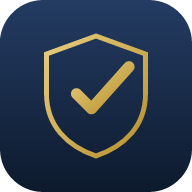
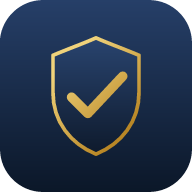
Refine the JobWarden shield identity

diff --git a/css/install.css b/css/install.css
@@ -9,7 +9,7 @@ a{color:inherit}img{display:block;max-width:100%}
 a:focus-visible,button:focus-visible{outline:2px solid var(--gold);outline-offset:5px}
 .site-header,.install-hero,.instructions,.after-install,.closing,footer{padding-left:max(5vw,24px);padding-right:max(5vw,24px)}
 .site-header{height:92px;display:flex;align-items:center;justify-content:space-between;border-bottom:1px solid var(--line)}
-.brand{display:inline-flex;align-items:center;gap:12px;text-decoration:none}.brand img{width:42px;height:46px}.brand span{display:grid}
+.brand{display:inline-flex;align-items:center;gap:12px;text-decoration:none}.brand img{width:44px;height:48px}.brand span{display:grid}
 .brand strong{font-family:var(--serif);font-size:1.03rem;letter-spacing:.035em}.brand small{color:var(--gold);font-family:var(--mono);font-size:.63rem;letter-spacing:.26em;text-transform:uppercase}
 .back-link{font-size:.84rem;text-underline-offset:5px}
 .install-hero{min-height:590px;display:grid;grid-template-columns:1.1fr .7fr;align-items:center;gap:10vw;padding-top:70px;padding-bottom:70px}
@@ -40,7 +40,7 @@ h1{margin:0 0 25px;font-size:clamp(3.2rem,6.4vw,6.1rem)}.lede{max-width:620px;ma
 footer{display:flex;justify-content:space-between;gap:50px;padding-top:48px;padding-bottom:50px;background:#070b13;color:#778398;font-size:.72rem}
 footer p{max-width:780px;margin:0}footer div{display:flex;gap:18px;white-space:nowrap}footer a:hover{color:var(--gold)}
 @media (max-width:820px){.install-hero{grid-template-columns:1fr;min-height:0}.install-mark{width:260px}.section-intro{grid-template-columns:1fr;gap:8px}.device-guides{grid-template-columns:1fr}footer{flex-direction:column}}
-@media (max-width:600px){.site-header{height:76px}.brand img{width:35px;height:39px}.back-link{font-size:.76rem}.install-hero{padding-top:62px;padding-bottom:70px}h1{font-size:clamp(2.8rem,13.5vw,4rem)}
+@media (max-width:600px){.site-header{height:76px}.brand img{width:37px;height:41px}.back-link{font-size:.76rem}.install-hero{padding-top:62px;padding-bottom:70px}h1{font-size:clamp(2.8rem,13.5vw,4rem)}
   .actions{display:grid}.button{width:100%}.install-mark{display:none}.instructions,.after-install{padding-top:76px;padding-bottom:76px}.section-intro h2,.after-install h2{font-size:2.55rem}
   .device-guide{padding:26px 22px}.after-install li{grid-template-columns:1fr;gap:6px}.closing{align-items:flex-start;flex-direction:column}footer div{flex-wrap:wrap}}
 @media (prefers-reduced-motion:reduce){.button{transition:none}}

diff --git a/css/marketing.css b/css/marketing.css
@@ -22,7 +22,7 @@ a:focus-visible{outline:2px solid var(--gold);outline-offset:5px}
 .site-header{height:92px;display:flex;align-items:center;justify-content:space-between;border-bottom:1px solid var(--line)}
 .site-header{padding-left:max(2.6vw,24px);padding-right:max(2.6vw,24px)}
 .brand{display:inline-flex;align-items:center;gap:12px;text-decoration:none}
-.brand img{width:42px;height:46px}.brand span{display:grid}
+.brand img{width:44px;height:48px}.brand span{display:grid}
 .brand strong{font-family:var(--serif);font-size:1.03rem;letter-spacing:.035em}
 .brand small{color:var(--gold);font-family:var(--mono);font-size:.63rem;letter-spacing:.26em;text-transform:uppercase}
 nav{display:flex;align-items:center;gap:34px}nav a{font-size:.88rem;text-decoration:none}
@@ -94,7 +94,7 @@ footer>div{display:flex;justify-content:flex-end;gap:18px}footer a:hover{color:v
   footer{grid-template-columns:1fr;gap:28px}footer>div{justify-content:flex-start}
 }
 @media (max-width:600px){
-  .site-header{height:76px}.brand img{width:35px;height:39px}nav{gap:14px}
+  .site-header{height:76px}.brand img{width:37px;height:41px}nav{gap:14px}
   nav a:first-child{display:none}.nav-install{padding:8px 13px}.hero{min-height:0}
   .hero-copy{padding:62px 0 28px}h1{font-size:clamp(2.9rem,13vw,3.75rem)}
   h1::after{width:130px;margin-top:22px}

diff --git a/css/shell.css b/css/shell.css
@@ -4,7 +4,7 @@
 .app-header { position: sticky; top: 0; z-index: var(--z-header); display: flex; flex-wrap: wrap; align-items: center; justify-content: space-between; gap: 8px 12px; padding: 16px 16px calc(16px + env(safe-area-inset-top)); background: var(--header-bg); border-bottom: 1px solid var(--line); box-shadow: inset 0 1px 0 var(--hi), 0 10px 24px -18px rgba(0,0,0,.5); }
 .brand { margin: 0; display: flex; align-items: center; gap: 12px; min-width: 0; }
 .mark { width: 42px; height: 42px; flex: none; border-radius: var(--radius); display: grid; place-items: center; color: var(--primary-strong); background: var(--sheen), linear-gradient(160deg, var(--navy-2), var(--navy-deep)); border: 1px solid rgba(205,171,69,.3); box-shadow: var(--shadow-1); }
-.mark svg { width: 24px; height: 24px; }
+.mark img { width: 27px; height: 30px; }
 .wordmark { display: flex; flex-direction: column; min-width: 0; }
 .wm-name { font-family: var(--serif); font-weight: 600; font-size: var(--fs-title); letter-spacing: .04em; line-height: 1.05; color: var(--text); white-space: nowrap; }
 .wm-name .wm-warden { color: var(--primary); }

diff --git a/index.html b/index.html
@@ -18,7 +18,7 @@
 <body>
   <header class="app-header">
     <h1 class="brand">
-      <span class="mark"><svg viewBox="0 0 100 110" fill="none" stroke="currentColor" stroke-linecap="round" stroke-linejoin="round" aria-hidden="true"><path d="M50 9 L84 22 V53 C84 77 68 93 50 100 C32 93 16 77 16 53 V22 Z" stroke-width="6"/><path d="M35 55 L46 66 L70 38" stroke-width="9"/></svg></span>
+      <span class="mark"><img src="./icons/logo-mark.svg" alt=""></span>
       <span class="wordmark"><span class="wm-name">Job<span class="wm-warden">Warden</span></span><span class="over">Field Log</span></span>
     </h1>
     <span class="pill"><span class="pill-dot" aria-hidden="true"></span>Saved on this phone</span>

diff --git a/service-worker.js b/service-worker.js
@@ -1,5 +1,5 @@
 // service-worker.js — offline app shell cache. One concern: caching + offline fallback.
-const CACHE = 'jobwarden-v80';
+const CACHE = 'jobwarden-v81';
 const ASSETS = [
   './', './index.html', './landing.html', './install.html', './privacy.html', './terms.html', './manifest.webmanifest',
   './css/styles.css', './css/tokens.css', './css/shell.css', './css/forms.css', './css/records.css', './css/marketing.css', './css/install.css', './css/legal.css',

diff --git a/README.md b/README.md
@@ -95,7 +95,7 @@ The suite (**220 tests** at last run) covers:
 Lint (`npm run lint`) and type-check (`npm run typecheck`, JSDoc + `tsc --checkJs` over the domain layer) run alongside tests in CI. After changing any cached asset, bump `CACHE` in `service-worker.js` so installed clients update — and note it in [`CHANGELOG.md`](CHANGELOG.md), which is keyed on that same string.
 
 ## Design
-The "Field Log" UI: plain-language, navy-and-gold "legal authority" branding on a dark canvas, self-hosted fonts (Geist / Geist Mono / Cinzel), offline-safe icons from `lucide-static`, and WCAG 2.1 AA contrast/structure.
+The "Field Log" UI: plain-language, navy-and-gold "legal authority" branding on a dark canvas, self-hosted fonts (Geist / Geist Mono / Cinzel), offline-safe icons from `lucide-static`, and WCAG 2.1 AA contrast/structure. `icons/logo-mark.svg` is the canonical brand mark; `scripts/build-app-icons.mjs` renders every installable PWA icon from it.
 
 ## Disclaimer
 Not legal advice. A self-kept log is structured testimony, not automatic proof — its strength comes from being contemporaneous, factual, and corroborated (timeclock/paystub photos, manager texts). Confirm classification and strategy with an employment attorney or the California Labor Commissioner.

diff --git a/design-qa.md b/design-qa.md
@@ -79,3 +79,14 @@ Fix:
 - P0 remaining: none.
 - P1 remaining: none.
 - P2 remaining: none.
+
+## v81 logo refinement addendum
+
+- Before/after comparison:
+  `C:\Users\Justi\.codex\visualizations\2026\07\25\019f9aef-b609-7981-9acd-f30f694ee1df\logo-refinement-comparison.png`
+- Final landing context:
+  `C:\Users\Justi\.codex\visualizations\2026\07\25\019f9aef-b609-7981-9acd-f30f694ee1df\logo-refinement-landing.png`
+- The shield-and-check concept remains intact. The refined mark improves curve continuity,
+  check centering, negative space, stroke consistency, and 192 px reproduction.
+- Header, app shell, favicon, standard PWA tile, and maskable PWA tile now resolve from the
+  same canonical SVG geometry. The maskable mark remains inside the platform-safe center area.

diff --git a/CHANGELOG.md b/CHANGELOG.md
@@ -7,6 +7,13 @@ file is keyed on. Newest first.
 This project has not had a public production launch — see
 [`docs/LEGAL_FOUNDATION.md`](docs/LEGAL_FOUNDATION.md) for what is still blocking one.
 
+## v81 — 2026-07-25
+
+**The same mark, properly resolved.** The shield-and-check identity now uses smoother shield
+curvature, a centered check, balanced negative space, and a restrained navy-to-gold finish
+that stays clear at favicon and home-screen sizes. The canonical SVG is now the source for
+all generated PWA icons, so the header mark and installed app icon cannot drift apart.
+
 ## v80 — 2026-07-25
 
 **A real front door.** The root now opens a focused marketing page built around the actual

diff --git a/docs/IMPROVEMENT_AUDIT.md b/docs/IMPROVEMENT_AUDIT.md
@@ -81,7 +81,8 @@ project, not an auto-translate; the *remaining* catalog additions in §2 (split-
 deliberate cut); Playwright in CI (the loop is verified by hand each pass, but automating it
 needs a browser runner); trusted timestamping (OpenTimestamps); per-record *checkbox*
 selection (the filter-scoped export covers the main use case); a real screen-reader pass on a
-budget Android; the logo rework (needs a direction call).
+budget Android. The shield-and-check logo rework was completed in `jobwarden-v81`, with
+one canonical vector source now driving the header and generated PWA icons.
 
 ---
 
